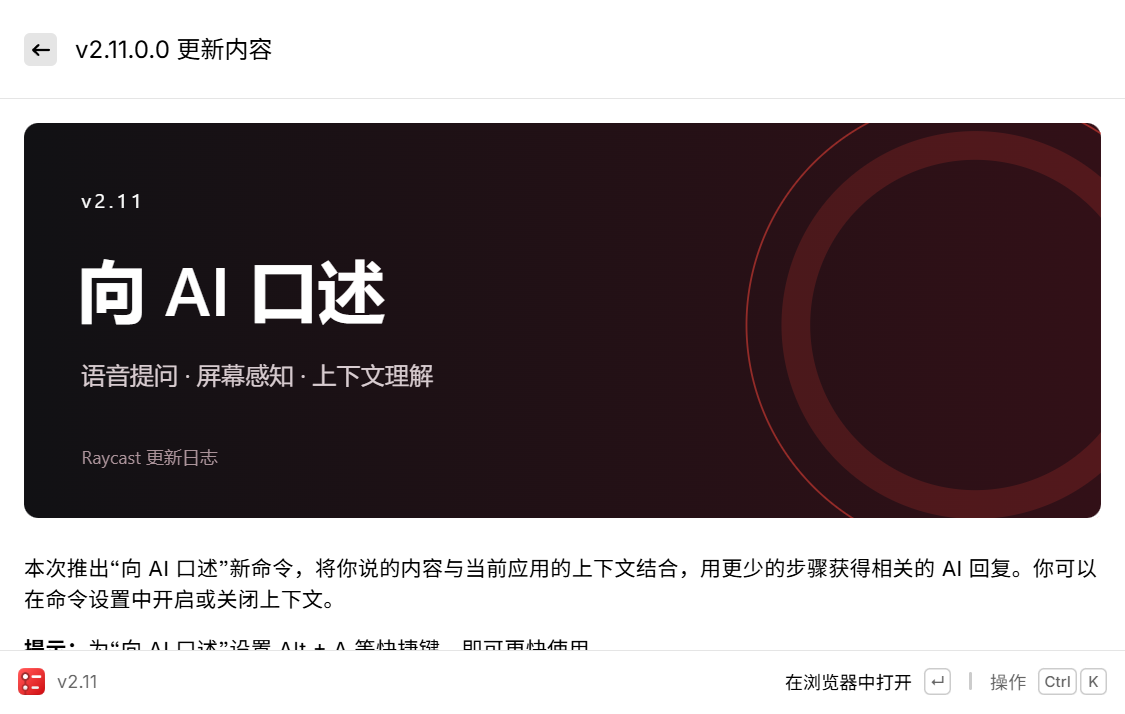
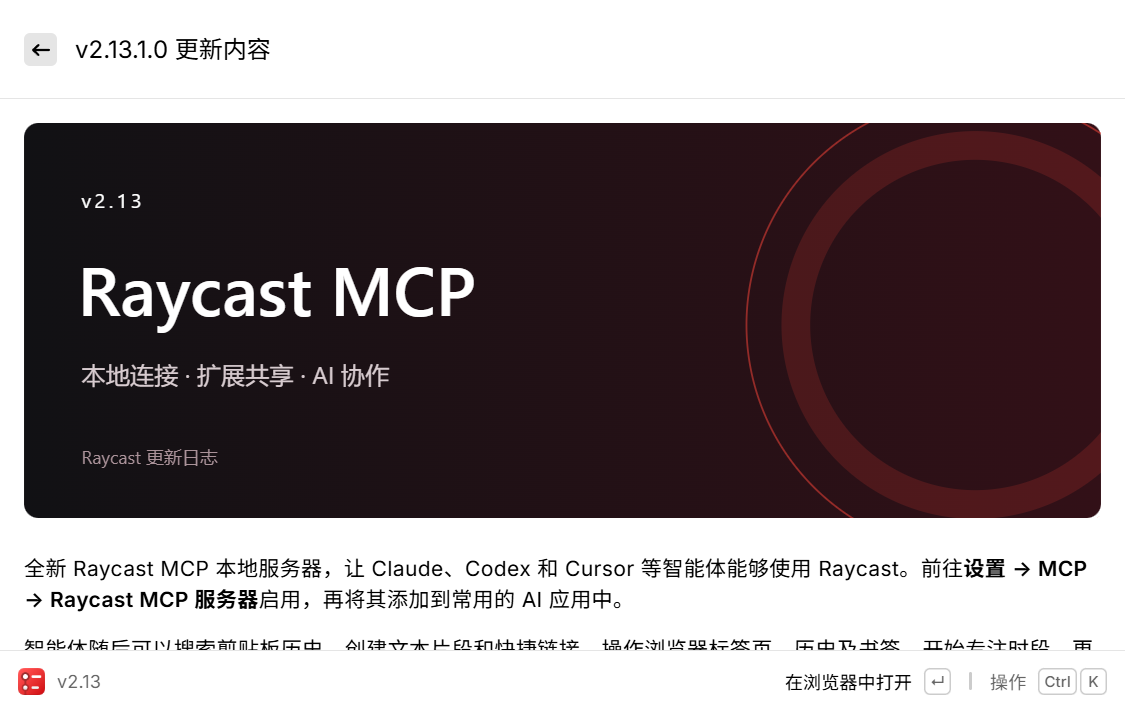
feat: support Raycast Windows 2.13.1.0

diff --git a/docs/validation.md b/docs/validation.md
@@ -1,5 +1,13 @@
 # Windows 汉化验收记录
 
+## 2.13.1.0-r1（2026-11-19）
+
+- 适配 Microsoft Store Raycast 2.13.1.0 x64，114 个资源文件、21,174 处显示修改。替换次数不代表独立文案数量。
+- 新增 213 条界面译文，涵盖工作树、浏览器连接、任务栏性能信息等；部分未收录文案仍保留原文。
+- 翻译更新日志的 67 个文本块、标题及横幅。
+- 本机完成旧版卸载、新版安装、正常退出及原版入口重启，主界面和更新日志中文显示已实测。
+- 适配新版退出接口，保留资源指纹检查。29 项自动化测试通过。
+
 ## 2.11.0.0-r1（2026-11-07）
 
 - 适配 Microsoft Store Raycast 2.11.0.0 x64，117 个资源文件、17,354 处显示修改。资源打包方式变化，替换次数不代表独立文案数量。
@@ -100,6 +108,6 @@
 
 没有批量安装插件，没有登录外部服务，没有测试真实账号操作、付费功能、设备控制或所有命令。插件源码与 Store 已发布版本可能不同；运行时只翻译实际安装版本能安全识别的字面量。截图只显示本机已验收的界面，不代表所有页面均为中文。
 
-**尚未在第二台真实电脑验证完整安装和界面。** 支持条件是当前用户已安装 Microsoft Store Raycast 2.11.0.0 x64 且指纹匹配。不能据此保证其他版本、ARM64、组织管理策略限制的环境或所有插件流程均可用。
+**尚未在第二台真实电脑验证完整安装和界面。** 支持条件是当前用户已安装 Microsoft Store Raycast 2.13.1.0 x64 且指纹匹配。不能据此保证其他版本、ARM64、组织管理策略限制的环境或所有插件流程均可用。
 
 更新保护：主程序版本或指纹变化时拒绝加载。插件更新时重新备份并分析；不支持的语法跳过并记录。汉化文件被用户手动修改时，卸载拒绝覆盖该文件并保留备份。

diff --git a/README.md b/README.md
@@ -2,7 +2,7 @@
 
 Raycast Windows Simplified Chinese Localization，支持主界面、设置、商店、更新日志和热门插件。非官方项目。
 
-**适配 Microsoft Store 版 Raycast 2.11.0.0 x64。**
+**适配 Microsoft Store 版 Raycast 2.13.1.0 x64。**
 
 [下载 Windows 版](https://github.com/zwjtano/raycast-windows-zh-CN/releases/latest) · [macOS 版](https://github.com/zwjtano/raycast-macos-zh-CN)
 
